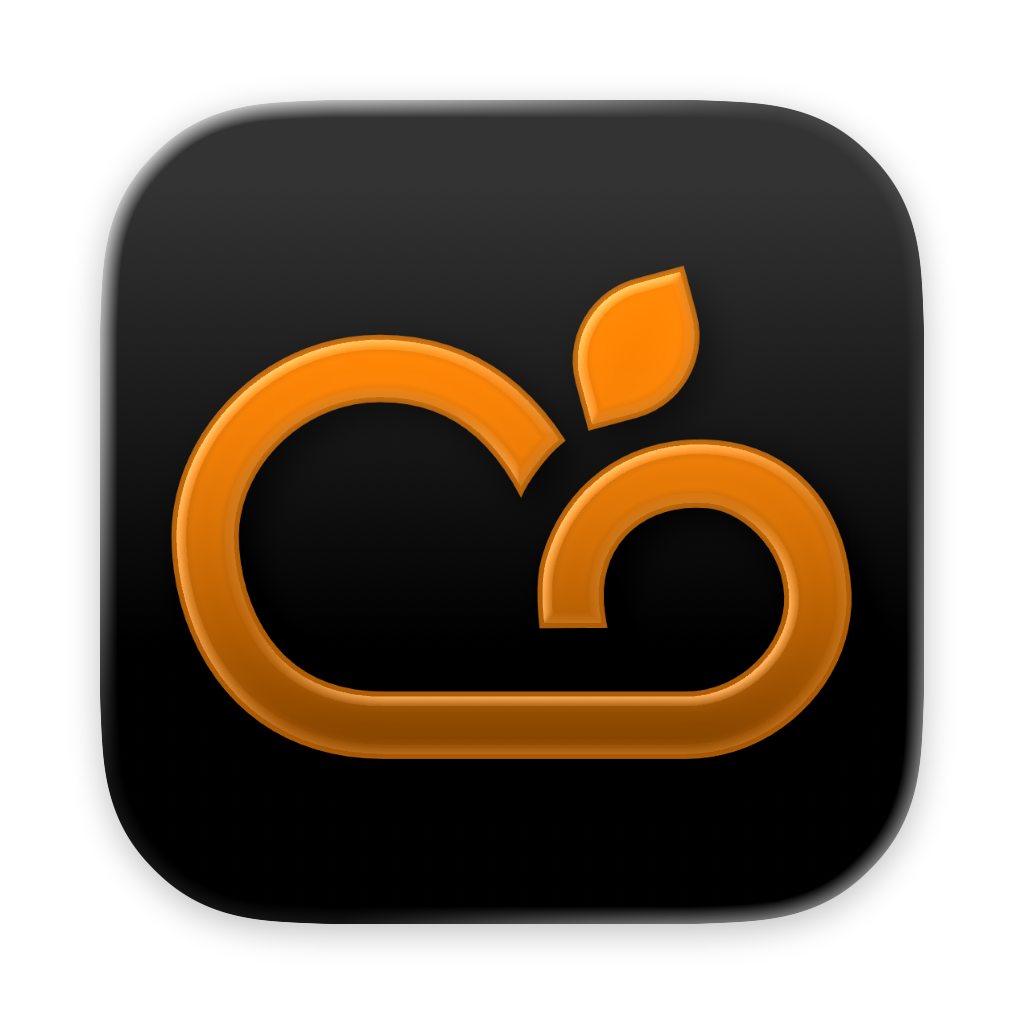
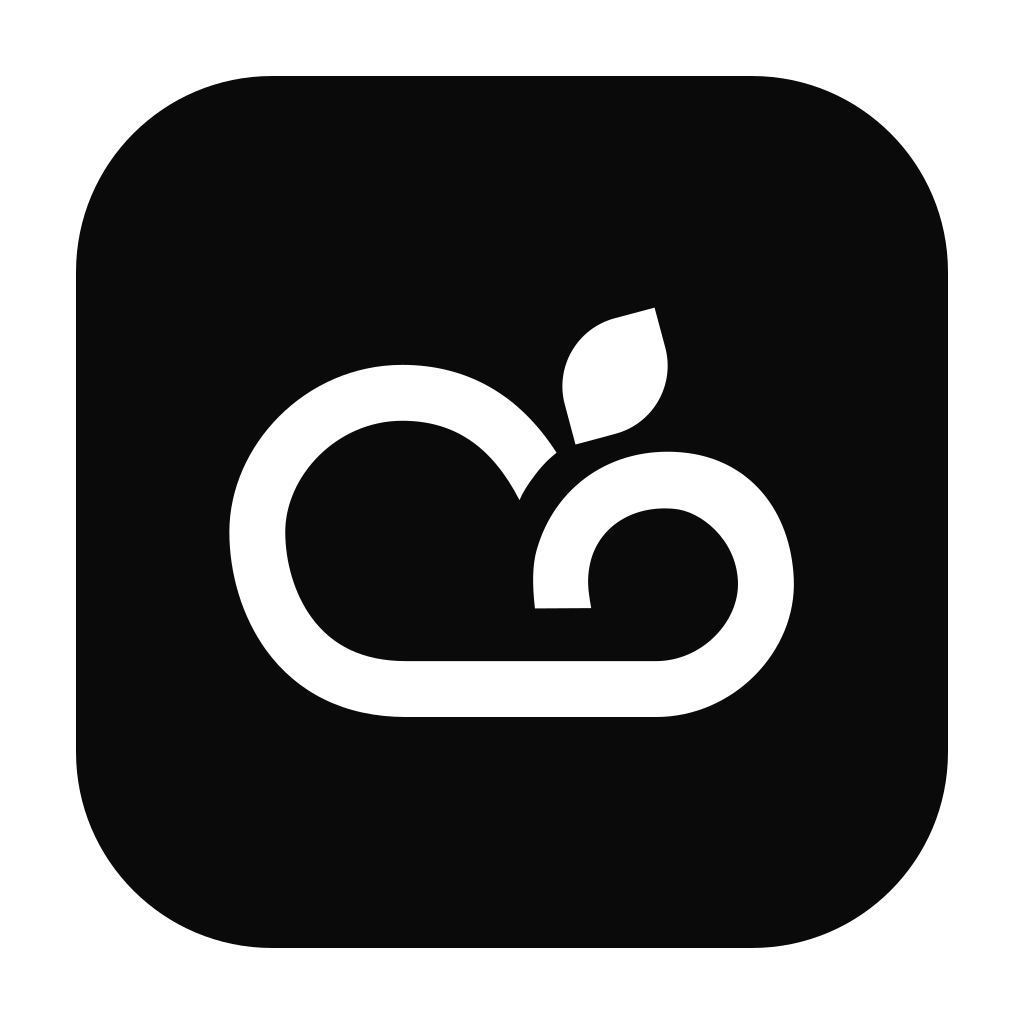
feat(brand): tres colorways del icono y un guard que distingue sus fondos (ORCA-438)
Las tres opciones de Settings quedaban visualmente iguales y se seguian llamando
Classic/Watercolor/Blue Orca. Ahora son opciones reales: naranja de marca,
monocromo blanco sobre negro, y violeta con halo. Los ids no cambian porque uno
ya esta guardado en los ajustes de cada usuario y renombrarlos resetearia la
eleccion en silencio.

Los SVG fuente quedan en resources/app-icons/src para poder regenerar.

El guard no puede pedirles naranja: dos de los tres no lo tienen por diseño. En
su lugar afirma el caracter del fondo —neutro sin tono, o violeta con azul
liderando y chroma real— sobre un pixel que ademas tiene que ser opaco.

Primera version de ese chequeo pasaba en verde con la orca azul puesta: el punto
que muestreaba caia fuera del squircle, y un pixel transparente se lee como negro
y satisface cualquier fondo oscuro. Tambien pasaba al intercambiar los dos fondos,
porque la tolerancia era mayor que la distancia entre ellos.

diff --git a/src/shared/app-icon.ts b/src/shared/app-icon.ts
@@ -1,7 +1,9 @@
+// The ids outlive their labels on purpose: one is already stored in every user's
+// settings, and renaming them would silently reset the choice to the default.
 export const APP_ICON_OPTIONS = [
-  { id: 'classic', label: 'Classic Orca' },
-  { id: 'watercolor', label: 'Watercolor Orca' },
-  { id: 'blue', label: 'Blue Orca' }
+  { id: 'classic', label: 'Ab2Web Orange' },
+  { id: 'watercolor', label: 'Monochrome' },
+  { id: 'blue', label: 'Violet' }
 ] as const
 
 export type AppIconId = (typeof APP_ICON_OPTIONS)[number]['id']
